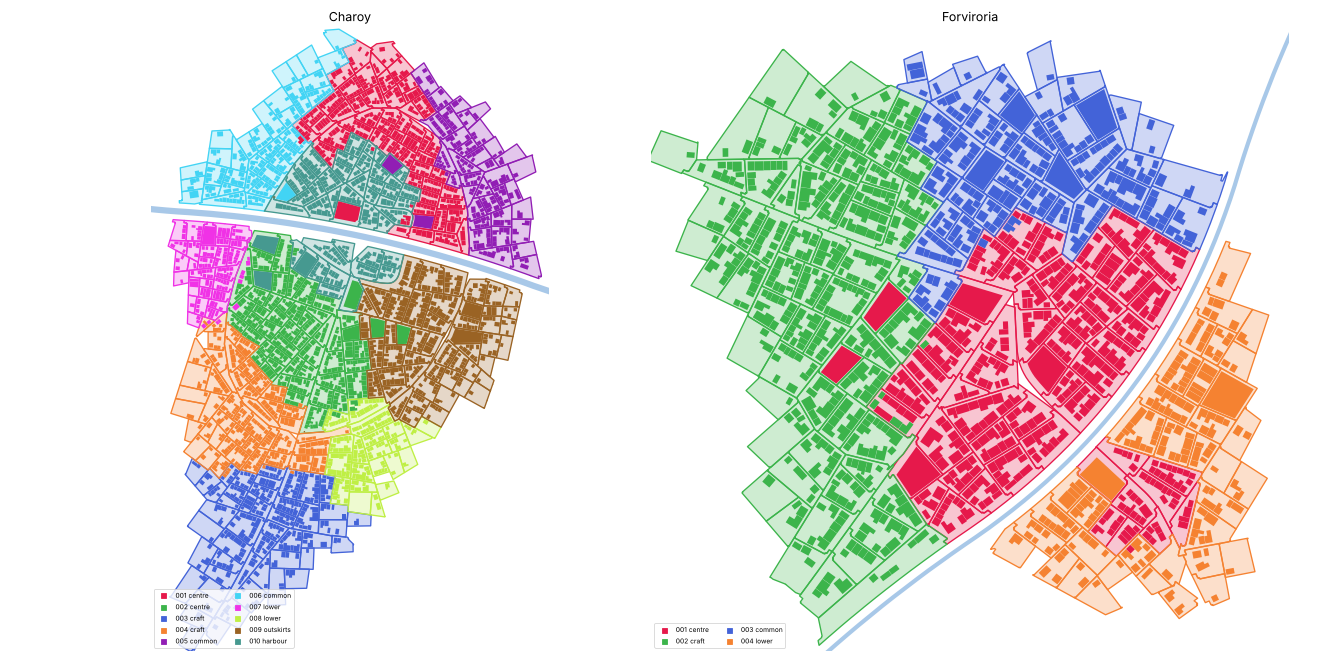
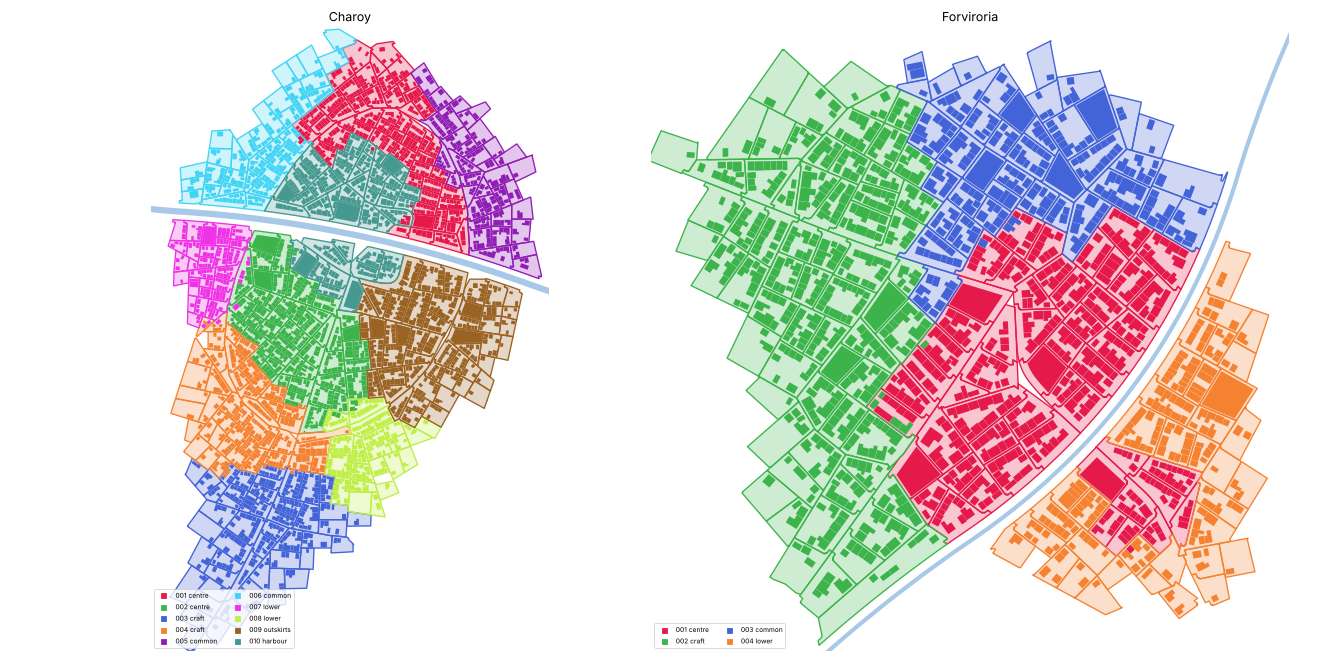
Phase 6G: a landmark belongs to the district whose ground it stands in
A landmark with a block or a ward of its own takes its block's district, or
for the plaza and the castle the district holding most of the blocks beside
it. Its lot names that district, the lot invariant allows it for those
landmark types, and the server reports a building's district from its lot.
The city's record is unchanged.

Claude-Session: https://claude.ai/code/session_019qRJBQMGr38e1co9ntneoi

diff --git a/packages/core/src/layout/staged/layout.ts b/packages/core/src/layout/staged/layout.ts
@@ -398,11 +398,12 @@ export function generateStagedLayout(city: City, brief: SettlementBrief, pack: S
     if (at < 0) fail(`route ${position} (${route.routeId}) has no exit on the network: ${net.notes.join('; ')}`);
     exits.push({ id: `exit-${number}-${pad(position + 1, 3)}`, junctionId: junctionId.get(at) as string, routeId: route.routeId, ...(route.name !== undefined && { name: route.name }), kind: route.kind, bearing: route.bearing, ...((net.nodes[at] as NetNode).atQuay && { atQuay: true }) });
   });
+  const standing = landmarkDistricts(plan);
   const lots: Lot[] = [];
   city.buildings.forEach((building, at) => {
     const draft = drafts.get(building.id);
     if (!draft) return fail(`${building.id}, a ${building.type}, was given no place`);
-    lots.push({ id: `lot-${number}-${pad(at + 1, 6)}`, buildingId: building.id, polygon: draft.polygon, districtId: building.districtId, entrance: { segmentId: segmentId.get(draft.entrance.edge) as string, point: draft.entrance.point }, footprints: draft.footprints, ...(draft.front && { front: draft.front }) });
+    lots.push({ id: `lot-${number}-${pad(at + 1, 6)}`, buildingId: building.id, polygon: draft.polygon, districtId: standing.get(building.id) ?? building.districtId, entrance: { segmentId: segmentId.get(draft.entrance.edge) as string, point: draft.entrance.point }, footprints: draft.footprints, ...(draft.front && { front: draft.front }) });
   });
   const walls: WallRecord[] = [];
   if (plan.wall && wallLines.length > 0) {
@@ -611,11 +612,39 @@ function pointAt(line: readonly Point[], along: number): Point {
   return line[0] as Point;
 }
 
+/** The district holding most of the blocks beside a tile: whose ground the plaza's and the castle's is. */
+function besideMost(plan: TownPlan, tile: number): number | undefined {
+  const blocks = plan.blocks.length;
+  const counts = new Map<number, number>();
+  for (const other of plan.tilesBeside[tile] ?? []) {
+    const of = other < blocks ? plan.drawn.blockDistrict[other] : undefined;
+    if (of !== undefined) counts.set(of, (counts.get(of) ?? 0) + 1);
+  }
+  return [...counts].sort((a, b) => b[1] - a[1] || a[0] - b[0])[0]?.[0];
+}
+
+/**
+ * The district each landmark with a block or a ward of its own stands in: its block's, or for the plaza and the
+ * castle the district holding most of the blocks beside it. A landmark belongs to the district whose ground it
+ * stands in, whichever the city made it for, so no landmark is a stranger in a neighbour's ground.
+ */
+export function landmarkDistricts(plan: TownPlan): Map<string, string> {
+  const specials = plan.wards.flatMap((ward, index) => (ward.kind === 'ordinary' ? [] : [index]));
+  const standing = new Map<string, string>();
+  for (const landmark of plan.landmarks) {
+    const at = landmark.reservation === 'ward' ? specials.indexOf(landmark.ward) : -1;
+    const of = landmark.block !== undefined ? plan.drawn.blockDistrict[landmark.block] : at >= 0 ? besideMost(plan, plan.blocks.length + at) : undefined;
+    const id = of === undefined ? undefined : plan.districts[of]?.id;
+    if (id !== undefined) standing.set(landmark.building, id);
+  }
+  return standing;
+}
+
 /**
  * Each district's ground: the tiles of the blocks it was drawn over (`districting.ts`), and the plaza's and the
- * castle's for the district holding most of the blocks beside each. A block that lends houses to a neighbour stays its owner's
- * ground, so those lots stand in a neighbour's ground, as does a landmark whose block ended in another district's;
- * the census counts them. The tiles of one district are let overlap a
+ * castle's for the district holding most of the blocks beside each. The few houses that make every district's count
+ * exact stand in a neighbour's ground; the census counts them. A landmark belongs to the district whose ground it
+ * stands in (`landmarkDistricts`). The tiles of one district are let overlap a
  * little, which joins them; those of different districts keep a finger's breadth apart, so that no ground is
  * counted twice. Where a bridge has one district's ground at each end, the two are joined by a bridge link; nothing
  * is drawn across it.
@@ -626,15 +655,7 @@ function districtGround(plan: TownPlan, city: City, lots: readonly Lot[]): { are
   const idOf = (of: number | undefined) => (of === undefined ? undefined : plan.districts[of]?.id);
   // The plaza's and the castle's ground goes to the district holding most of the blocks beside it, whatever district
   // the landmark there belongs to.
-  const besideMost = (tile: number) => {
-    const counts = new Map<number, number>();
-    for (const other of plan.tilesBeside[tile] ?? []) {
-      const of = other < blocks ? plan.drawn.blockDistrict[other] : undefined;
-      if (of !== undefined) counts.set(of, (counts.get(of) ?? 0) + 1);
-    }
-    return [...counts].sort((a, b) => b[1] - a[1] || a[0] - b[0])[0]?.[0];
-  };
-  const owner: Array<string | undefined> = plan.tiles.map((_, tile) => idOf(tile < blocks ? plan.drawn.blockDistrict[tile] : besideMost(tile)));
+  const owner: Array<string | undefined> = plan.tiles.map((_, tile) => idOf(tile < blocks ? plan.drawn.blockDistrict[tile] : besideMost(plan, tile)));
   // A block no district holds, open country among them, is nobody's ground and is not drawn.
   /** Each tile with the district it belongs to. */
   const entries: Array<{ tile: number; district: string; rings: Point[][]; holes: Point[][] }> = [];

diff --git a/packages/server/src/cities.ts b/packages/server/src/cities.ts
@@ -78,6 +78,7 @@ export class CityView {
   private readonly brief: SettlementBrief;
   private readonly pack: SettingPack;
   private madeLayout: Layout | undefined;
+  private standing: Map<string, string> | undefined;
   private pathFinder: PathFinder | undefined;
   private livedLife: SettlementLife | undefined;
   private townForAvatar: AvatarTown | undefined;
@@ -101,6 +102,15 @@ export class CityView {
       if (list) list.push(person);
       else this.staff.set(person.employerHouseholdId, [person]);
     }
+  }
+
+  /**
+   * The district a building stands in: its lot's in the layout. That is the city's own for every building but a
+   * landmark with ground of its own, which belongs to the district whose ground it stands in.
+   */
+  districtOfBuilding(building: Building): string {
+    this.standing ??= new Map(this.layout.lots.map((lot) => [lot.buildingId, lot.districtId]));
+    return this.standing.get(building.id) ?? building.districtId;
   }
 
   /** The town's layout, made the first time it is asked for and kept with the city. */
@@ -304,7 +314,7 @@ export class CityView {
     const byWork = filters.occupation !== undefined || filters.category !== undefined;
     return paged(
       this.city.buildings.filter((building) => {
-        if (filters.district !== undefined && building.districtId !== filters.district) return false;
+        if (filters.district !== undefined && this.districtOfBuilding(building) !== filters.district) return false;
         if (filters.kind !== undefined && building.kind !== filters.kind) return false;
         if (filters.type !== undefined && building.type !== filters.type) return false;
         return !byWork || building.workerIds.some((id) => this.worksAs(this.people.get(id) as Person, filters));
@@ -346,7 +356,7 @@ export class CityView {
     if (!building) return undefined;
     return {
       building,
-      district: this.districtRef(building.districtId),
+      district: this.districtRef(this.districtOfBuilding(building)),
       workers: building.workerIds.map((worker) => this.people.get(worker) as Person),
       households: building.householdIds.map((household) => this.listItem(this.households.get(household) as Household)),
     };

diff --git a/packages/core/src/layout/invariants.ts b/packages/core/src/layout/invariants.ts
@@ -197,6 +197,8 @@ export function checkLayout(layout: Layout, city: City, brief: SettlementBrief, 
 
   // Lots: one per building, in the building's district, entered from a segment that borders it.
   const widest = Math.max(0, ...segments.map((segment) => segment.width));
+  // The landmark types that reserve a block or a ward of their own under the staged generator.
+  const ownGround = new Set(Object.entries(pack.layout.staged?.landmarks.types ?? {}).flatMap(([type, mark]) => (mark.reservation === 'ward' || mark.reservation === 'block' ? [type] : [])));
   const lotOfBuilding = new Map<string, Lot>();
   let builtArea = 0;
   let townRadius = 0;
@@ -205,9 +207,10 @@ export function checkLayout(layout: Layout, city: City, brief: SettlementBrief, 
     for (const point of lot.polygon) townRadius = Math.max(townRadius, distance(ORIGIN, point));
     const building = buildingById.get(lot.buildingId);
     if (!building) problem(`${lot.id} belongs to ${lot.buildingId}, which does not exist`);
-    else if (building.districtId !== lot.districtId) {
+    else if (building.districtId !== lot.districtId && !ownGround.has(building.type)) {
+      // A landmark with a block or a ward of its own belongs to the district whose ground it stands in.
       problem(`${lot.id} is in ${lot.districtId} but its building ${building.id} is in ${building.districtId}`);
-    }
+    } else if (!districtById.has(lot.districtId)) problem(`${lot.id} is in ${lot.districtId}, which does not exist`);
     if (lotOfBuilding.has(lot.buildingId)) problem(`${lot.buildingId} has more than one lot`);
     lotOfBuilding.set(lot.buildingId, lot);
     const segment = segmentById.get(lot.entrance.segmentId);

diff --git a/packages/core/test/staged-layout.test.ts b/packages/core/test/staged-layout.test.ts
@@ -7,6 +7,7 @@ import { type City, type Layout, VILLAGE_GENERATOR, checkLayout, createLife, cre
 import { groundOf, outsideGrounds } from '../src/life/wander.ts';
 import { STAGED_GENERATOR, generateStagedLayout } from '../src/layout/staged/layout.ts';
 import { planTown, townInput } from '../src/layout/staged/plan.ts';
+import { pointInPolygon, polygonCentroid } from '../src/layout/geometry.ts';
 import type { SettlementBrief } from '../src/schema.ts';
 import { lomiaWorld, medievalPack } from './pack.ts';
 
@@ -105,6 +106,13 @@ describe('the staged generator as a layout', () => {
       // Few lots stand outside their own district's ground.
       const ground = measureDistrictGround(layout);
       expect(ground.lotsOutside / ground.lots, name).toBeLessThan(0.05);
+      // Every landmark with ground of its own stands in the ground of the district its lot names.
+      const areas = new Map(layout.districtAreas.map((area) => [area.districtId, area.polygons]));
+      const lotOf = new Map(layout.lots.map((lot) => [lot.buildingId, lot]));
+      for (const landmark of plan.landmarks) {
+        const lot = lotOf.get(landmark.building)!;
+        expect(areas.get(lot.districtId)!.some((polygon) => pointInPolygon(polygonCentroid(lot.polygon), polygon)), `${name}: ${landmark.type}`).toBe(true);
+      }
     }
   });
 

diff --git a/scripts/staged-census.ts b/scripts/staged-census.ts
@@ -106,7 +106,7 @@ console.log(`  houses standing in a neighbour's ground to make every count exact
 console.log(`  districts in more than one piece of blocks, in the stage's own terms: ${towns.inPieces}; districts spanning a river: ${towns.spans}; islands: ${towns.islands} houses`);
 console.log(`  towns with a district drawn in pieces, bridge links counted as joins: ${apart.length}${apart.length > 0 ? ` (${apart.join(', ')})` : ''}`);
 console.log(`  given a way of blocks to the water: ${towns.waterPaths}; to their bridgehead: ${towns.headPaths}`);
-console.log(`  landmarks whose block ended in another district: ${towns.landmarksOutside} of ${towns.landmarks} (${share(towns.landmarksOutside, towns.landmarks)})`);
+console.log(`  landmarks that took the district whose ground they stand in, not the one the city made them for: ${towns.landmarksOutside} of ${towns.landmarks} (${share(towns.landmarksOutside, towns.landmarks)})`);
 console.log(`  took more ground: ${towns.moreGround}`);
 console.log(`Generating the layouts took ${(generating / 1000).toFixed(0)} s`);
 if (listTowns) for (const line of failing) console.log(line);

diff --git a/packages/core/src/layout/records.ts b/packages/core/src/layout/records.ts
@@ -151,6 +151,7 @@ export const LotSchema = z.strictObject({
   id: LotIdSchema,
   buildingId: BuildingIdSchema,
   polygon,
+  /** The district the lot stands in: its building's, but for a staged town's landmark with a block or a ward of its own, which takes the district whose ground it stands in. */
   districtId: DistrictIdSchema,
   /** The lot is entered from this point on this segment's centre line. */
   entrance: z.strictObject({ segmentId: SegmentIdSchema, point: PointSchema }),

diff --git a/FINDINGS-6G.md b/FINDINGS-6G.md
@@ -211,10 +211,11 @@ Pack 0.20.0, `LAYOUT_VERSION` 13.
 | Landmarks whose block ended in another district | 0 | 1,008 of 4,339 (23.2%) |
 | Given a way of blocks to the water / to a bridgehead | | 1 (Pombal) / 0 |
 
+**Landmarks take the district they stand in** (added after the first renders: the castle stood as a red pentagon in a green district). A landmark with a block or a ward of its own now belongs to the district whose ground it stands in: its block's, or for the plaza and the castle the district holding most of the blocks beside it. Its lot's `districtId` is that district (`landmarkDistricts` in `staged/layout.ts`), the invariant that a lot's district is its building's allows it for those landmark types, and the server reports a building's district from its lot. The city's record of the building is not changed, so `life`, which reads the city, still places a landmark's district-wide rounds by the district the city made it for. About 1,008 of 4,339 landmarks change district so. Checked on the sample of 57 settlements (all invariants kept; town lots outside their own ground 0.76%), not on all 682.
+
 **What is not good yet.**
 - **Nine towns miss by over 2% of their houses**, all with a river and few districts: Orteres 43 of 538, Ririm 113 of 3,151, Jaszent 26 of 395, Tofiano 17 of 324, Jamsasarila 17 of 265, Feins 26 of 718, Zhisov 8 of 238, Meunglain 14 of 561, and the smaller Charoy 5 of 245. Where a bridge part sits in the middle of a bank it cuts the district around it in two, and no cell fits. Those houses stand in the neighbour's ground.
 - **Two districts are drawn in pieces.** Mihivesavo's centre has one house beyond a road at the far west, joined in the stage and drawn apart, because ground is not drawn across the widest roads. Rochambery's `lower` has a small part across the river that the census does not join by its bridge.
-- **Landmarks:** 23% stand in another district's ground. They keep their district.
 - **A small part across a river.** A district that must carry only a few houses over a bridge gets a small far part. It is correct and looks odd.
 
 **Tests.** `npm run typecheck` is clean. Where this was written the machine is too slow and too small for the whole suite, so `npm run check` still has to be run once on the development machine. What was run here:

diff --git a/README.md b/README.md
@@ -635,7 +635,12 @@ and each stage draws on streams named `staged-…`. The stages:
     from the neighbour beside it, hop by hop from the nearest district
     with houses to spare, so those few houses stand in a neighbour's
     ground. No block changes hands to settle a count, which is what keeps
-    the districts compact. If the whole
+    the districts compact. A landmark with a block or a ward of its own
+    (a bathhouse, a guild hall, the castle, the plaza) belongs to the
+    district whose ground it stands in, whichever district the city made
+    it for: its lot names that district (`landmarkDistricts`), and the
+    server reports it. The city's own record of the building is unchanged.
+    If the whole
     town has too few houses, ground is taken again half as large again, at
     most three times: the generator's only loop, which no settlement of
     Lomia needs.
@@ -772,7 +777,7 @@ houses), every layout invariant on:
 | Town lots outside their own district's ground | 5,229 of 523,259 (1.00%) |
 | Towns whose ground misses by over 2% of their houses | 9; the worst Orteres, 43 of 538, and Ririm, 113 of 3,151 |
 | Districts spanning a river | 157 |
-| Landmarks whose block ended in another district's ground | 1,008 of 4,339 (23.2%) |
+| Landmarks that took the district they stand in, not the one the city made them for | 1,008 of 4,339 (23.2%) |
 
 `docs/renders/districts-*.png` show twelve towns, each lot in its
 building's district's colour over the districts' ground.
